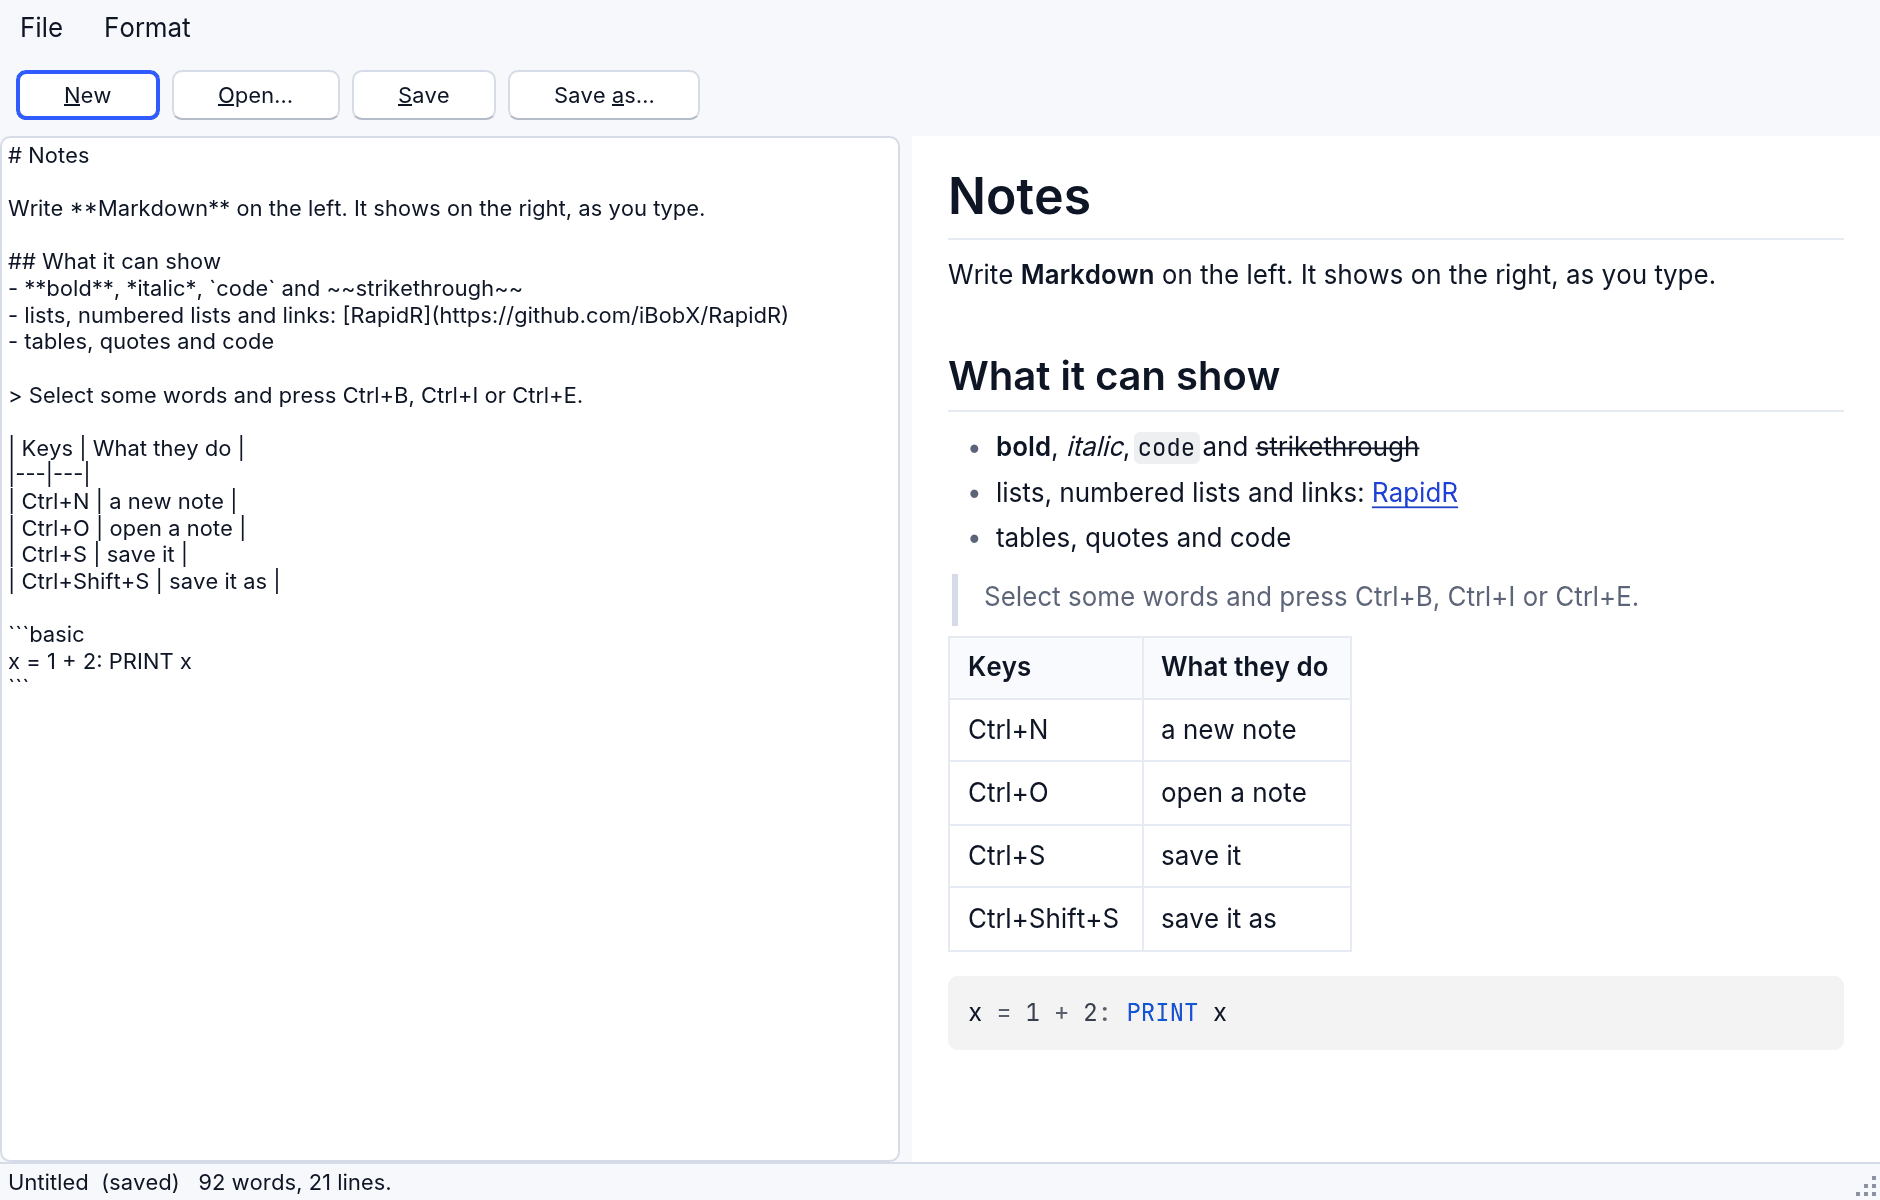
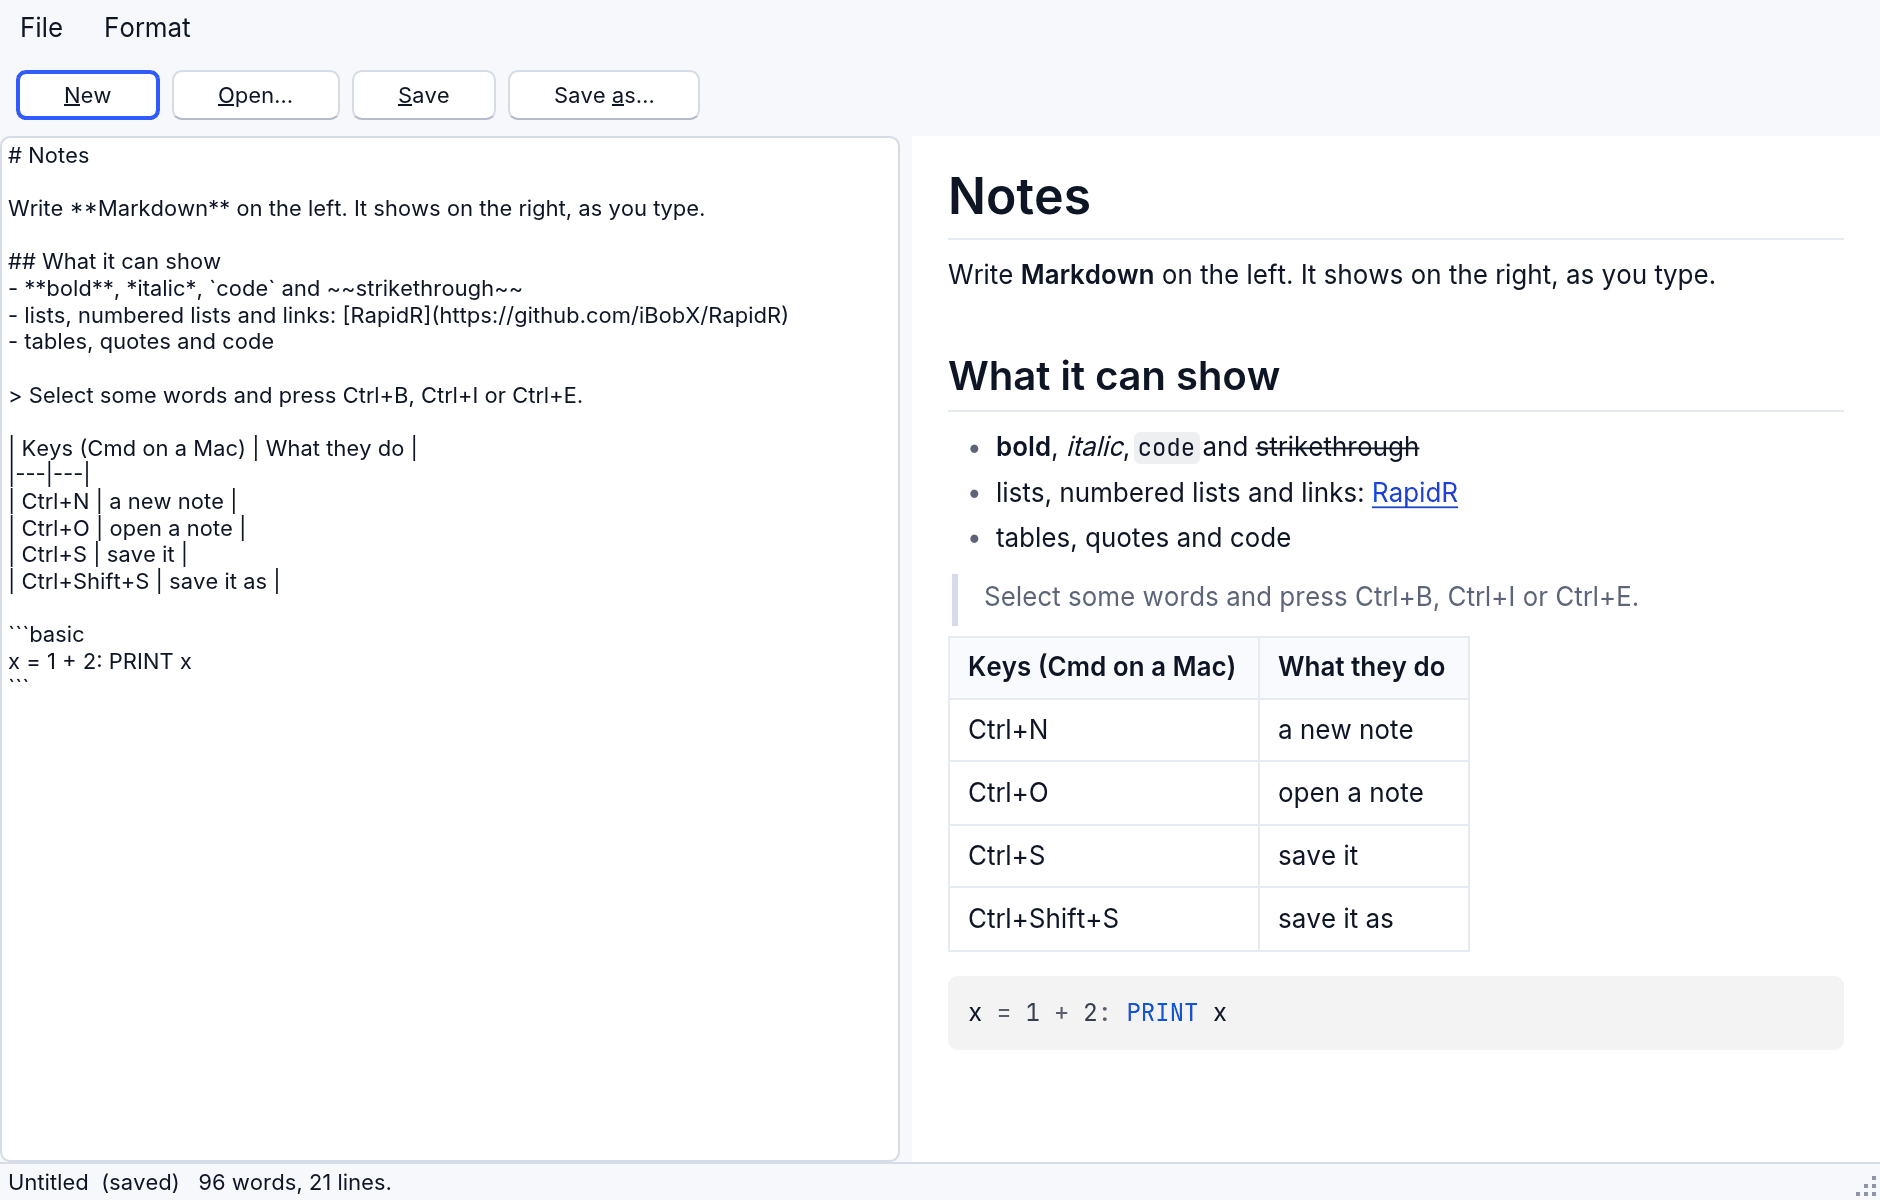
SHOWCASE: what the real-window walk found: same_numbers follows the window size and keeps its axes, notes shows file names only and says Cmd on a Mac, the snake timing test tolerates a busy machine

diff --git a/docs/manual/showcase.md b/docs/manual/showcase.md
@@ -99,8 +99,8 @@ understands Markdown. Write on the left; the right shows the note formatted,
 as you type: headings, lists, tables, quotes, code, **bold** and *italic*, and
 links you can click (they open in the browser). **New**, **Open** and
 **Save** work on files and have the usual keys (Ctrl+N, Ctrl+O, Ctrl+S,
-Ctrl+Shift+S, on a Mac with Cmd); the **Format** menu puts marks round the
-selected text (Ctrl+B bold, Ctrl+I italic, Ctrl+E code). The note's name and
+Ctrl+Shift+S, on a Mac with Cmd instead of Ctrl); the **Format** menu puts marks
+round the selected text (Ctrl+B bold, Ctrl+I italic, Ctrl+E code). The note's name and
 whether it is saved are in the title and under the window, with a count of
 words and lines. Changes are never lost without asking: New, Open and closing
 the window ask "Save the changes?" first.
@@ -259,7 +259,10 @@ rr = cov / (sdx * sdy)
 Each chart is an `RPlot` made in code (`DIM Chart(3) AS RPlot`, then
 `Chart(q).Parent = Form` and its place) with a `Scatter` series for the points
 and a `Plot` series for the line, all four on the same axes (`Xlim`, `Ylim`)
-so that their shapes can be compared.
+so that their shapes can be compared. `DrawCharts` draws them again whenever
+the line is switched (`Clear` also clears the axes, so it sets them each
+time), and `LayOut`, called from the form's `OnResize`, spreads the four
+charts and their numbers over whatever size the window has.
 
 ## Pi by darts
 
